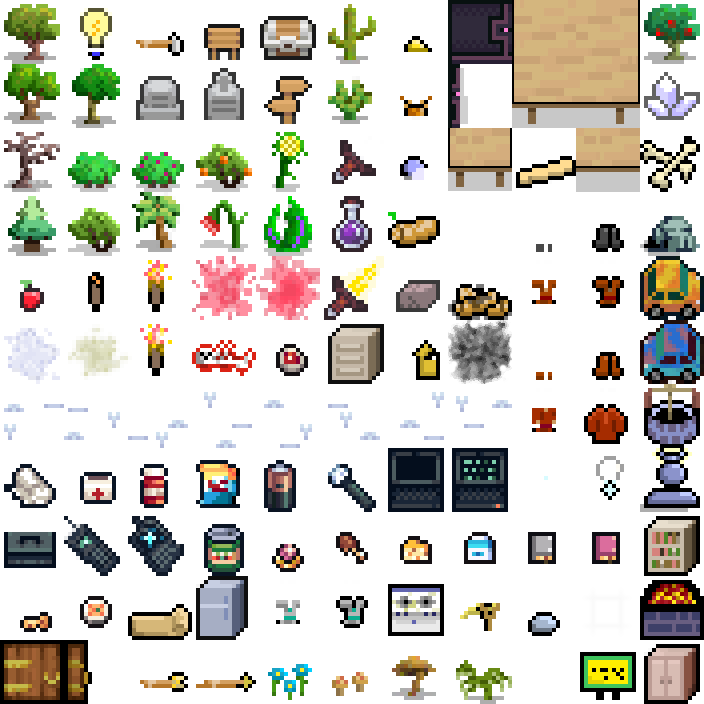
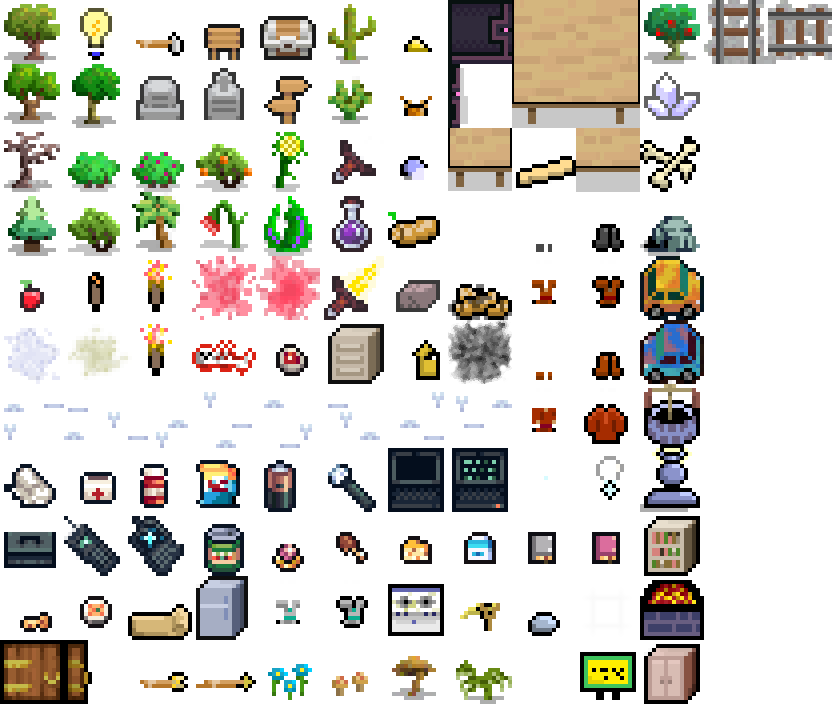
rails tiles

diff --git a/src/main/kotlin/render/tilesets/SpriteSheets.kt b/src/main/kotlin/render/tilesets/SpriteSheets.kt
@@ -20,7 +20,7 @@ object SpriteSheets {
             "sheets/tiles_terrain.png", 12, 14, Screen.textureFilter
         ),
         ThingSprites(
-            "sheets/tiles_thing.png", 11, 11, Screen.textureFilter
+            "sheets/tiles_thing.png", 13, 11, Screen.textureFilter
         ),
         UISprites(
             "sheets/tiles_ui.png", 6, 5, Texture.TextureFilter.Nearest

diff --git a/src/main/kotlin/render/tilesets/ThingTileSet.kt b/src/main/kotlin/render/tilesets/ThingTileSet.kt
@@ -148,4 +148,6 @@ fun ThingTileSet() =
         setTile(Glyph.BOOKSHELF, SimpleTile(this, 10, 8))
         setTile(Glyph.FORGE, SimpleTile(this, 10, 9))
         setTile(Glyph.WARDROBE, SimpleTile(this, 10, 10))
+        setTile(Glyph.RAILS_V, SimpleTile(this, 11, 10))
+        setTile(Glyph.RAILS_H, SimpleTile(this, 12, 10))
     }

diff --git a/src/main/kotlin/render/tilesets/Glyph.kt b/src/main/kotlin/render/tilesets/Glyph.kt
@@ -191,6 +191,8 @@ enum class Glyph {
     BOOKSHELF,
     FORGE,
     WARDROBE,
+    RAILS_H,
+    RAILS_V,
 
     BLOODSTAIN,
     SCORCHMARK,
